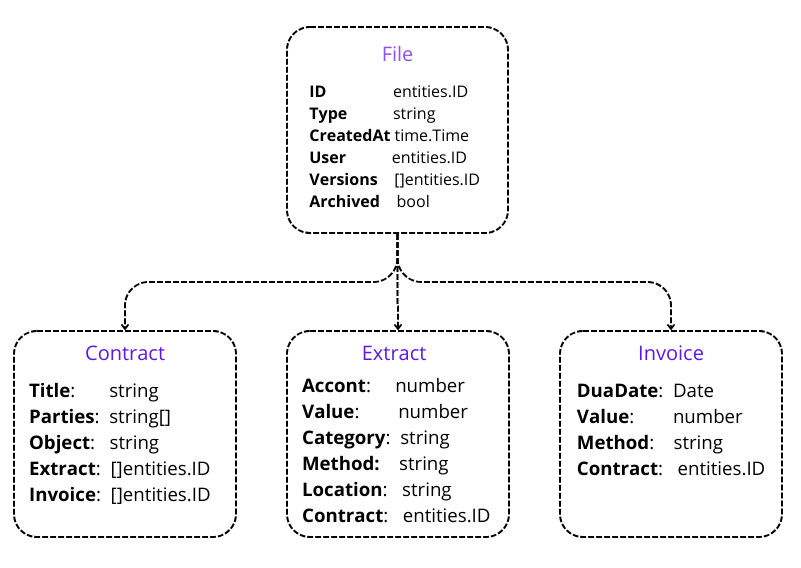
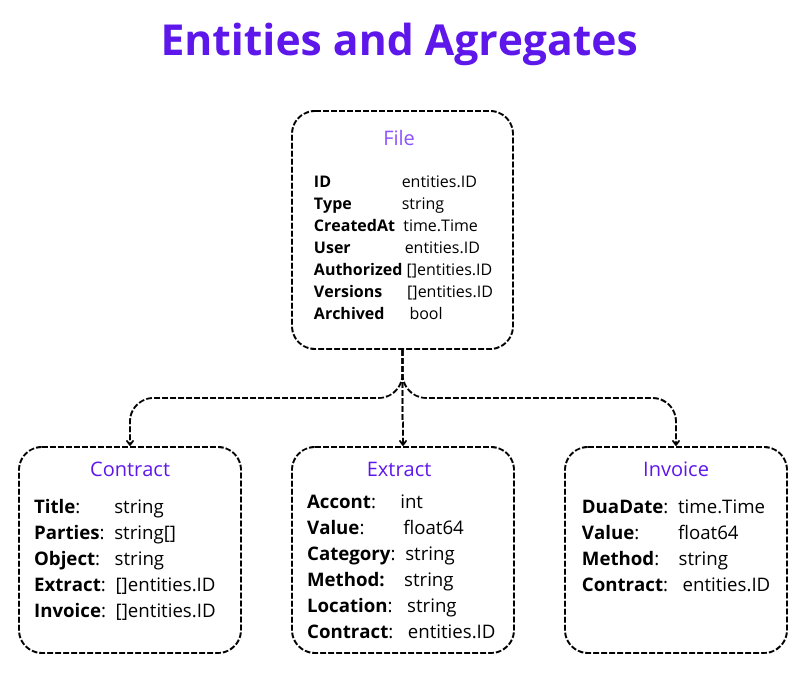
✬ doc: authorized field in File entity

diff --git a/docs/registros-de-desenvolvimento.md b/docs/registros-de-desenvolvimento.md
@@ -28,6 +28,12 @@ Dessa forma, se o valor do campo "Archived" está como falso, significa que é o
 
 **Obs**: Não entendi ser necessário um campo como "UpdatedAt" para o versionamento, uma vez que a própria data de criação ("CreatedAt") do novo documento já carrega essa informação consigo.
 
+**Update** [ 12 Jan 2024 ] - <u>Adição do campo "Authorized"</u> <br>
+O objetivo desse campo é permitir que o *user*, aquele que está enviando o arquivo, possa authorizar outros usuários a ter acesso a este documento. <br>
+Isso também evita a necessidade de duplicação de arquivos e dados.  
+
+O *user* não enviara os IDs autorizados, mas os CPFs, a aplicação será responsável por identificar se os CPFs estão registrados no sistema e coletar os respectivos IDs para atribuir a entidade *File* e persistir no banco.
+
 ### Contract
 
 **Title**: O título do contrato.
